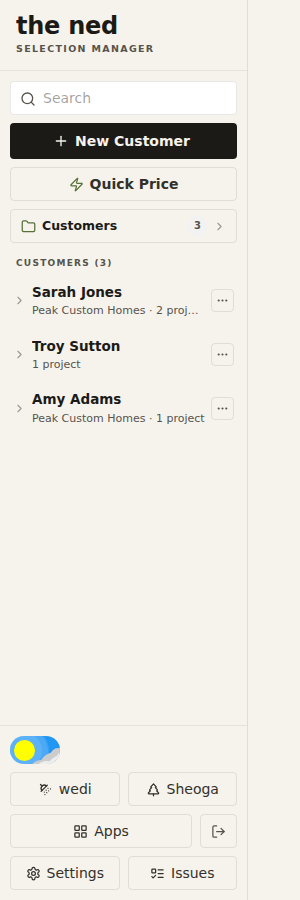
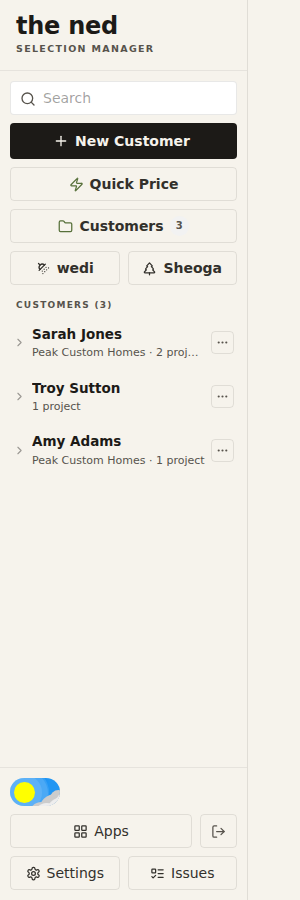
Move wedi/Sheoga row under the Customers button, restyle Customers like Quick Price
The shortcut row leaves the rail footer for the slot right under the
Customers button. Customers itself now matches Quick Price above it:
centered icon + label, semibold, keeping the count pill and dropping
the chevron. Preview re-shot in .scratch/081.

Claude-Session: https://claude.ai/code/session_01Mtrv65jfDtyGYKrQR1kMC2

diff --git a/src/App.jsx b/src/App.jsx
@@ -1178,12 +1178,16 @@ export default function App({ user, onSignOut }) {
                 unassigned estimates/drafts live behind its Estimates & drafts
                 toggle, so this is the everyday door to all of them. */}
             <button onClick={() => { setShowBrowser(true); setSidebarOpen(false); }} title="Browse all customers"
-              className="w-full flex items-center gap-1.5 rounded-md border border-slate-200 hover:bg-slate-50 text-sm py-1.5 px-2.5 text-slate-600">
-              <Folder size={15} className="text-indigo-500 shrink-0" />
-              <span className="ft-item-name text-[12.5px] font-semibold truncate flex-1 text-left">Customers</span>
-              <span className="text-[10px] font-semibold text-slate-400 bg-slate-100 rounded-full px-1.5 leading-5 shrink-0">{data.people.length}</span>
-              <ChevronRight size={13} className="text-slate-300 shrink-0" />
+              className="w-full flex items-center justify-center gap-1.5 rounded-md border border-slate-200 hover:bg-slate-50 text-sm font-semibold py-1.5 text-slate-600">
+              <Folder size={15} className="text-indigo-500" /> Customers
+              <span className="text-[10px] font-semibold text-slate-400 bg-slate-100 rounded-full px-1.5 leading-5">{data.people.length}</span>
             </button>
+            {/* Configurator shortcuts: the same wedi/Sheoga apps the hub lists,
+                one press from the customer column. */}
+            <div className="flex gap-2">
+              <button onClick={() => openAppsTo("wedi")} title="wedi shower configurator" className="flex-1 flex items-center justify-center gap-1.5 rounded-md border border-slate-200 hover:bg-slate-50 text-sm font-semibold py-1.5 text-slate-600"><ShowerHead size={15} /> wedi</button>
+              <button onClick={() => openAppsTo("sheoga")} title="Sheoga hardwood configurator" className="flex-1 flex items-center justify-center gap-1.5 rounded-md border border-slate-200 hover:bg-slate-50 text-sm font-semibold py-1.5 text-slate-600"><TreePine size={15} /> Sheoga</button>
+            </div>
           </div>
           <div className="flex-1 overflow-y-auto px-1.5 pb-2">
             {data.people.length === 0 && unassigned.length === 0 && quickPrices.length === 0 && <div className="text-center text-sm text-slate-400 mt-8 px-4">No customers yet</div>}
@@ -1215,12 +1219,6 @@ export default function App({ user, onSignOut }) {
           <div className="p-2.5 border-t border-slate-100">
             <div className="flex mb-2">
               <ThemeSwitch theme={theme} setTheme={setTheme} />
-            </div>
-            {/* Configurator shortcuts: the same wedi/Sheoga apps the hub lists,
-                one press from the customer column. */}
-            <div className="flex gap-2 mb-2">
-              <button onClick={() => openAppsTo("wedi")} title="wedi shower configurator" className="flex-1 flex items-center justify-center gap-1.5 rounded-md border border-slate-200 hover:bg-slate-50 text-sm py-1.5 text-slate-600"><ShowerHead size={15} /> wedi</button>
-              <button onClick={() => openAppsTo("sheoga")} title="Sheoga hardwood configurator" className="flex-1 flex items-center justify-center gap-1.5 rounded-md border border-slate-200 hover:bg-slate-50 text-sm py-1.5 text-slate-600"><TreePine size={15} /> Sheoga</button>
             </div>
             {/* Two rows of two: three labelled buttons plus sign-out no longer
                 fit across the narrowed rail on one line. */}

diff --git a/.scratch/081_sidebar-wedi-sheoga-buttons/entry.jsx b/.scratch/081_sidebar-wedi-sheoga-buttons/entry.jsx
@@ -26,12 +26,14 @@ function SidebarMock() {
         <div className="relative"><Search size={16} className="absolute left-2.5 top-2.5 text-slate-400" /><input placeholder="Search" className={inp + " pl-8"} readOnly /></div>
         <button className="ft-spark-btn w-full flex items-center justify-center gap-1.5 text-sm font-semibold py-2"><Plus size={16} className="-ml-1" /> New Customer</button>
         <button className="w-full flex items-center justify-center gap-1.5 rounded-md border border-slate-200 hover:bg-slate-50 text-sm font-semibold py-1.5 text-slate-600"><Zap size={15} className="text-indigo-500" /> Quick Price</button>
-        <button className="w-full flex items-center gap-1.5 rounded-md border border-slate-200 hover:bg-slate-50 text-sm py-1.5 px-2.5 text-slate-600">
-          <Folder size={15} className="text-indigo-500 shrink-0" />
-          <span className="ft-item-name text-[12.5px] font-semibold truncate flex-1 text-left">Customers</span>
-          <span className="text-[10px] font-semibold text-slate-400 bg-slate-100 rounded-full px-1.5 leading-5 shrink-0">3</span>
-          <ChevronRight size={13} className="text-slate-300 shrink-0" />
+        <button className="w-full flex items-center justify-center gap-1.5 rounded-md border border-slate-200 hover:bg-slate-50 text-sm font-semibold py-1.5 text-slate-600">
+          <Folder size={15} className="text-indigo-500" /> Customers
+          <span className="text-[10px] font-semibold text-slate-400 bg-slate-100 rounded-full px-1.5 leading-5">3</span>
         </button>
+        <div className="flex gap-2">
+          <button title="wedi shower configurator" className="flex-1 flex items-center justify-center gap-1.5 rounded-md border border-slate-200 hover:bg-slate-50 text-sm font-semibold py-1.5 text-slate-600"><ShowerHead size={15} /> wedi</button>
+          <button title="Sheoga hardwood configurator" className="flex-1 flex items-center justify-center gap-1.5 rounded-md border border-slate-200 hover:bg-slate-50 text-sm font-semibold py-1.5 text-slate-600"><TreePine size={15} /> Sheoga</button>
+        </div>
       </div>
       <div className="flex-1 overflow-y-auto px-1.5 pb-2">
         <div className="mt-1 mb-1 px-2.5 ft-eyebrow text-[9px]">Customers (3)</div>
@@ -53,10 +55,6 @@ function SidebarMock() {
       <div className="p-2.5 border-t border-slate-100">
         <div className="flex mb-2">
           <ThemeSwitch theme="light" setTheme={() => {}} />
-        </div>
-        <div className="flex gap-2 mb-2">
-          <button title="wedi shower configurator" className="flex-1 flex items-center justify-center gap-1.5 rounded-md border border-slate-200 hover:bg-slate-50 text-sm py-1.5 text-slate-600"><ShowerHead size={15} /> wedi</button>
-          <button title="Sheoga hardwood configurator" className="flex-1 flex items-center justify-center gap-1.5 rounded-md border border-slate-200 hover:bg-slate-50 text-sm py-1.5 text-slate-600"><TreePine size={15} /> Sheoga</button>
         </div>
         <div className="flex gap-2 mb-2">
           <button className="flex-1 flex items-center justify-center gap-1.5 rounded-md border border-slate-200 hover:bg-slate-50 text-sm py-1.5 text-slate-600"><LayoutGrid size={15} /> Apps</button>

diff --git a/.scratch/081_sidebar-wedi-sheoga-buttons/README.md b/.scratch/081_sidebar-wedi-sheoga-buttons/README.md
@@ -8,12 +8,16 @@ buttons in the apps area as well."
 
 ## What changed
 
-- **Sidebar** (`App.jsx`): a new row in the rail's footer, directly below the
-  customer list — **wedi | Sheoga** side by side, above the Apps row. Each
-  opens the Apps hub straight onto its configurator via `openAppsTo(k)`
-  (sets `appsStart`, then the existing `openApps`, so labels still load and
-  the mobile drawer still closes). The plain Apps button routes through
-  `openAppsTo(null)` so it keeps landing on the default app.
+- **Sidebar** (`App.jsx`): a new row directly under the Customers button —
+  **wedi | Sheoga** side by side. Each opens the Apps hub straight onto its
+  configurator via `openAppsTo(k)` (sets `appsStart`, then the existing
+  `openApps`, so labels still load and the mobile drawer still closes). The
+  plain Apps button routes through `openAppsTo(null)` so it keeps landing on
+  the default app. (Follow-up 2026-08-07: the row started in the rail's
+  footer; the owner asked for it under the Customers button instead.)
+- **Customers button** (`App.jsx`): restyled to match Quick Price above it —
+  centered icon + label, font-semibold, same border/padding; keeps its count
+  pill, drops the left-aligned layout and trailing chevron.
 - **Apps hub** (`AppsWorkspace.jsx`): new optional `initialApp` prop seeds the
   `app` state (validated against `APP_NAME`, falls back to "labels"). The
   hub's own rail entries are untouched — wedi and Sheoga stay listed there.
